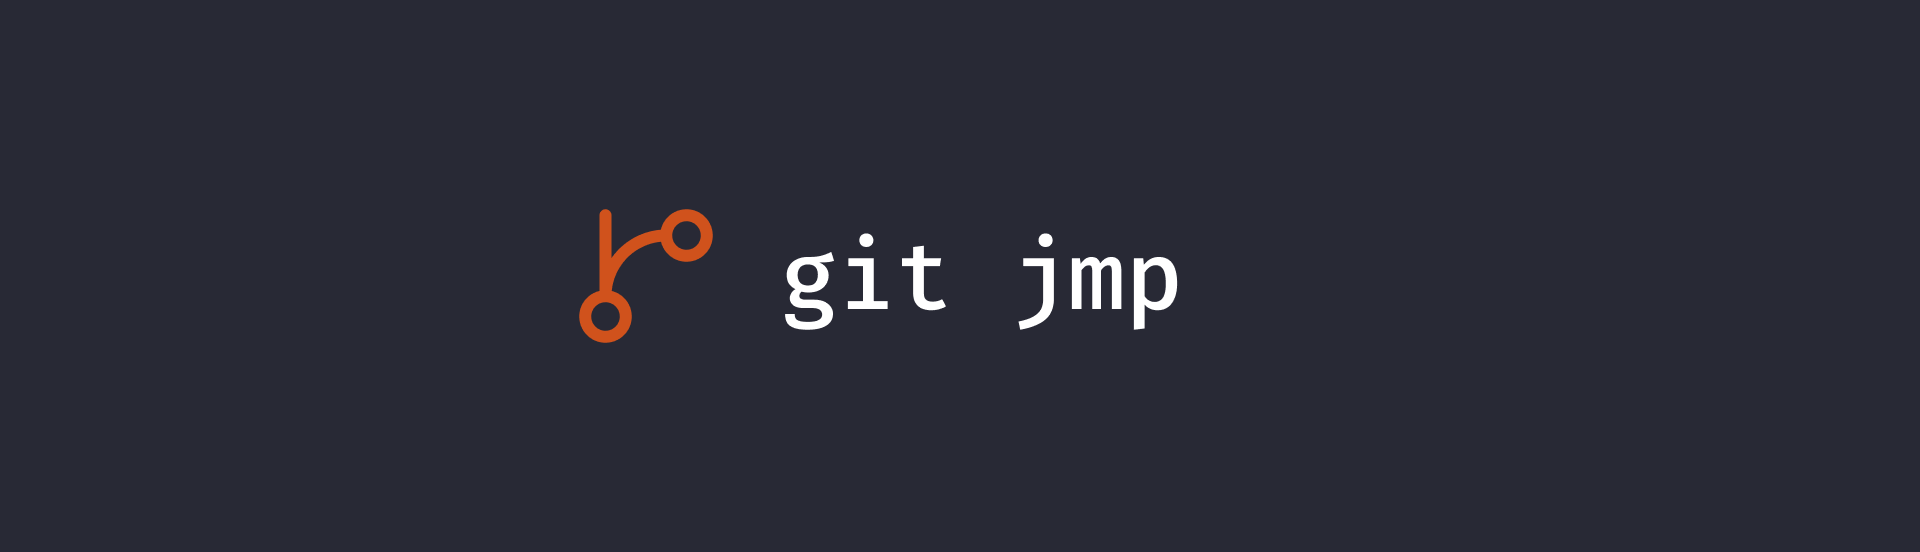
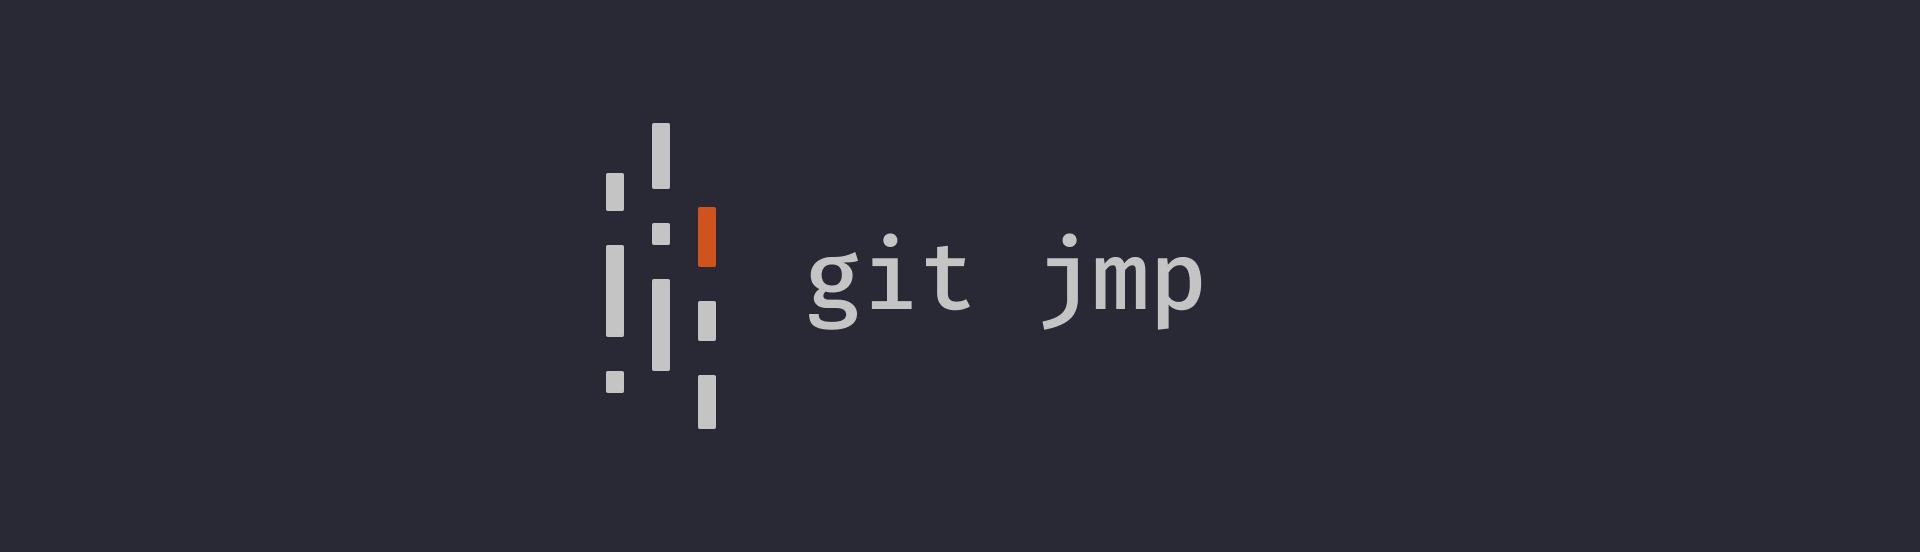
chore(rs): rename project + cleanup release docs

Changed region(s): [[0.2812, 0.2156, 0.375, 0.7699], [0.4062, 0.4004, 0.5, 0.6159], [0.5312, 0.4004, 0.625, 0.6159]]

diff --git a/src/version.rs b/src/version.rs
@@ -21,8 +21,8 @@ pub fn check_pkg_version() {
 
 fn fetch_latest_version() -> Result<String> {
     let response: serde_json::Value =
-        ureq::get("https://api.github.com/repos/pkitazos/git-jump/releases/latest")
-            .header("User-Agent", "git-jump")
+        ureq::get("https://api.github.com/repos/pkitazos/git-jmp/releases/latest")
+            .header("User-Agent", "git-jmp")
             .call()
             .context("failed to fetch latest release from GitHub")?
             .body_mut()

diff --git a/docs/how-to-release.md b/docs/how-to-release.md
@@ -1,23 +1,14 @@
 # Release Instructions
 
-## Publish new NPM package
+## Publish a new version
 
-1. Update `CHANGELOG.md`, `docs/help.txt`, and `docs/git-jump.1` if needed
-2. Commit the docs changes (e.g. `chore: update changelog`)
-3. `pnpm version <major | minor | patch>` creates the version-bump commit and tag
-4. `git push origin HEAD --tags`
-5. `pnpm publish --access public`
+1. Update `CHANGELOG.md`
+2. Bump the version in `Cargo.toml`
+3. Commit (e.g. `chore: release v0.2.0`)
+4. Tag: `git tag v0.2.0`
+5. `git push origin HEAD --tags`
 
-<!--## Update Homebrew formula with new version
-
-1. Check that the registry has published the new version: `pnpm view @pkitazos/git-jump dist.tarball`
-2. Get the SHA256 of the latest package by running `./scripts/latest-sha256.sh`
-3. Go to the folder containing your Homebrew tap repository (e.g., `homebrew-git-jump`)
-4. Insert the new package version and SHA hash into `git-jump.rb`
-5. Commit changes
-6. `git push origin HEAD`-->
-
-## Create new release on GitHub
+## Create a GitHub release
 
 1. Go to GitHub and create a new release based on the new tag
-2. Describe what has changed in the new version (you can simply copy the relevant entry from your `CHANGELOG.md`)
+2. Describe what has changed in the new version (you can simply copy the relevant entry from `CHANGELOG.md`)

diff --git a/todo.md b/todo.md
@@ -1,27 +1,15 @@
 # Todo
 
-## Configuration
-
-```toml
-[general]
-vim_mode = false
-sources = ["local"] # "include_remotes" (maybe even configurable as to which remotes to include)
-auto_check_updates = true
-
-[appearance]
-quick_select_hint = "full" # or "compact" or "hidden"
-theme = "default" # theme support comes in later
-```
-
 ## Before release
 
 - [x] write tests
 - [x] remove debug clause from interactive app
 - [x] decide where to do the semver check
 - [ ] update license
-- [ ] update readme
-- [ ] update name
-- [ ] rename repo
+- [x] update readme
+- [ ] release on brew
+- [x] update name
+- [x] rename repo
 - [ ] update help messages
-- [ ] unlink from fork network
+- [x] unlink from fork network
 - [ ] open issue upstream

diff --git a/README.md b/README.md
@@ -1,4 +1,4 @@
-![git-jump CLI logo](https://raw.githubusercontent.com/pkitazos/git-jump/tree/rust-port/img/banner.png)
+![git-jump CLI logo](https://raw.githubusercontent.com/pkitazos/git-jump/main/img/banner.png)
 
 # Git-Jmp
 
